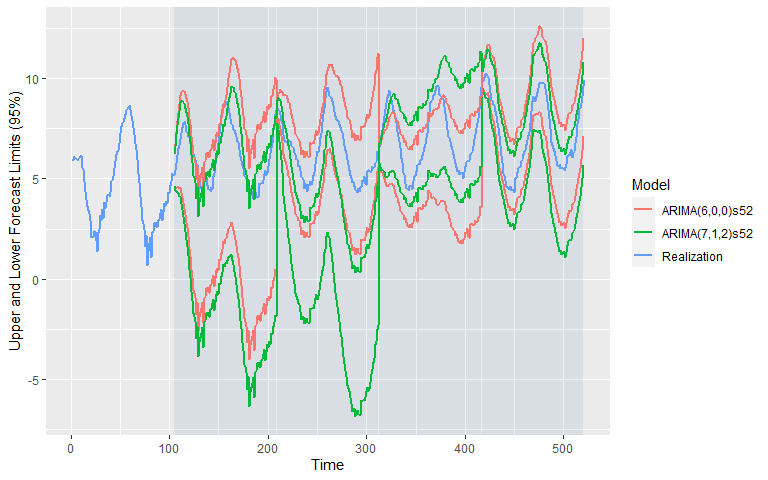
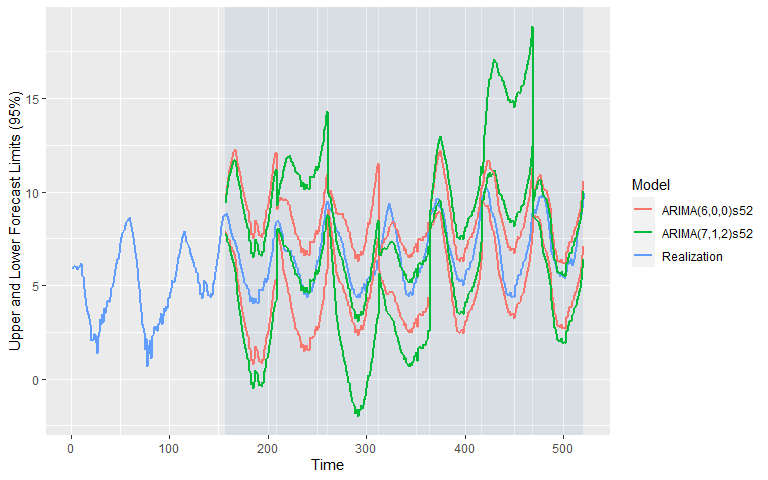
after 1st draft

diff --git a/case_study_4/analysis/master/flu_data_analysis.md b/case_study_4/analysis/master/flu_data_analysis.md
@@ -1,8 +1,9 @@
 Flu Data Analysis
 ================
 Nikhil Gupta
-2020-10-17 15:45:22
+2020-10-17 17:48:22
 
+-   [Reading Data](#reading-data)
 -   [Response Variable](#response-variable)
     -   [checking for nulls](#checking-for-nulls)
     -   [Simple representation](#simple-representation)
@@ -20,51 +21,8 @@ Nikhil Gupta
                 Residuals](#evaluation-of-the-residuals)
             -   [Model Characterisics](#model-characterisics)
 
-    library(tidyverse)
-
-    ## -- Attaching packages --------------------------------------- tidyverse 1.3.0 --
-
-    ## v ggplot2 3.3.2     v purrr   0.3.4
-    ## v tibble  3.0.3     v dplyr   1.0.2
-    ## v tidyr   1.1.2     v stringr 1.4.0
-    ## v readr   1.4.0     v forcats 0.5.0
-
-    ## -- Conflicts ------------------------------------------ tidyverse_conflicts() --
-    ## x dplyr::filter() masks stats::filter()
-    ## x dplyr::lag()    masks stats::lag()
-
-    library(scales)
-
-    ## 
-    ## Attaching package: 'scales'
-
-    ## The following object is masked from 'package:purrr':
-    ## 
-    ##     discard
-
-    ## The following object is masked from 'package:readr':
-    ## 
-    ##     col_factor
-
-    library(tswge)
-    library(tseries)
-
-    ## Registered S3 method overwritten by 'quantmod':
-    ##   method            from
-    ##   as.zoo.data.frame zoo
-
-    library(lubridate)
-
-    ## 
-    ## Attaching package: 'lubridate'
-
-    ## The following objects are masked from 'package:base':
-    ## 
-    ##     date, intersect, setdiff, union
-
-    library(tswgewrapped) 
-    #https://github.com/josephsdavid/tswgewrapped
-    #https://josephsdavid.github.io/tswgewrapped/index.html
+Reading Data
+============
 
     data = read.csv("../../data/FluNetInteractiveReport_2010_2019.csv")  %>%
       rowid_to_column() %>%
@@ -415,7 +373,7 @@ forward
     ## 6 5.888878
 
     var_interest = 'log_flu'
-    n.ahead = 52*2
+    n.ahead = 52 
     batch_size = 208
 
     mdl_compare_uni = tswgewrapped::ModelCompareUnivariate$new(
@@ -474,7 +432,7 @@ residuals are not white noise.
       )
     p
 
-    ## Warning: Removed 210 row(s) containing missing values (geom_path).
+    ## Warning: Removed 314 row(s) containing missing values (geom_path).
 
 ![](flu_data_analysis_files/figure-gfm/unnamed-chunk-23-1.png)<!-- -->
 
@@ -492,15 +450,21 @@ residuals are not white noise.
 
 ![](flu_data_analysis_files/figure-gfm/unnamed-chunk-26-1.png)<!-- -->
 
-    dataReal= filter(fcstPlot$plot_data,Model == 'Actual')
-    dataModels= filter(fcstPlot$plot_data,Model != 'Actual')
+    fcstPlot$plot_data_log = fcstPlot$plot_data %>%  
+      left_join(select(data,rowid,SDATE),by=c('Time'='rowid')) %>%
+      mutate(DATE2 = min(.$SDATE,na.rm=T) + weeks(Time-min(.$Time))
+             ,DATE = if_else(is.na(SDATE),DATE2,SDATE))
 
-    p = ggplot2::ggplot(data=dataModels, aes(x=Time)) +
+    dataReal= filter(fcstPlot$plot_data_log,Model == 'Actual')
+    dataModels= filter(fcstPlot$plot_data_log,Model == 'ARIMA(6,0,0)s52')
+
+    p = ggplot2::ggplot(data=dataModels, aes(x=DATE)) +
       geom_ribbon(aes(ymin=ll,ymax=ul,fill=Model),alpha=.2)+
       geom_line(aes(y=f,color=Model),size=.8) +
       geom_line(data=dataReal,aes(y=f),size=.2,color='#444444',linetype=1) +
+      scale_x_date(date_breaks = 'year',labels=year,minor_breaks = NULL)+
       ggthemes::theme_pander() +
-      labs(x='Week ID',y='Cases of Influcenza (Log)',title='Prediction of log-based Influenza Cases ') +
+      labs(x='Date',y='Cases of Influcenza (Log)',title='Prediction of log-based Influenza Cases ') +
       ggplot2::theme(
         legend.position = 'top'
         
@@ -508,19 +472,21 @@ residuals are not white noise.
     p
 
 ![](flu_data_analysis_files/figure-gfm/unnamed-chunk-27-1.png)<!-- -->
-\#\# un-logged prediction
+\#\# unlogged prediction
 
-    fcstPlot$plot_data_nolog = fcstPlot$plot_data %>%   mutate(f=exp(f),ll=exp(ll),ul=exp(ul))
-    dataReal= filter(fcstPlot$plot_data_nolog,Model == 'Actual') %>%
-      mutate(f)
-    dataModels= filter(fcstPlot$plot_data_nolog,Model != 'Actual')
+    fcstPlot$plot_data_nolog = fcstPlot$plot_data_log %>%  
+      mutate(f=exp(f),ll=exp(ll),ul=exp(ul))
+      
+    dataReal= filter(fcstPlot$plot_data_nolog,Model == 'Actual') 
+    dataModels= filter(fcstPlot$plot_data_nolog,Model  == 'ARIMA(6,0,0)s52')
 
-    p = ggplot2::ggplot(data=dataModels, aes(x=Time)) +
+    p = ggplot2::ggplot(data=dataModels, aes(x=DATE)) +
       geom_line(aes(y=f,color=Model),size=.8) +
       geom_line(data=dataReal,aes(y=f),size=.2,color='#444444',linetype=1) +
       ggthemes::theme_pander() +
+      scale_x_date(date_breaks = 'year',labels=year,minor_breaks = NULL)+
       scale_y_continuous(label=comma ) +
-      labs(x='Week ID',y='Cases of Influcenza',title='Prediction of Influenza Cases ') +
+      labs(x='Date',y='Cases of Influcenza',title='Prediction of Influenza Cases ') +
       ggplot2::theme(
         legend.position = 'top'
         
@@ -528,9 +494,40 @@ residuals are not white noise.
     p
 
 ![](flu_data_analysis_files/figure-gfm/unnamed-chunk-28-1.png)<!-- -->
-\#\# Conclusion
 
-In conclusion, it seems that the Seasonal ARIMA model without
-differencing seems to be performing better in general. The trend is not
-appreciable in the logged data to warrant differencing (adding the
-Integrated term in the model).
+    tbl = fcstPlot$plot_data_nolog %>%
+      mutate(year = year(DATE)
+             ,month =month(DATE)
+             ,week = week(DATE)
+             ,FourWeeks = floor((week-1)/4)+1
+             ) %>%
+      filter((year %in% c(2018,2019) & Model =='Actual') |(year == 2020 & Model =='ARIMA(6,0,0)s52') 
+             ) %>%
+      group_by(year,FourWeeks) %>%
+      summarise(f=sum(f),Wmin=min(week)) %>%
+      ungroup() %>%
+      pivot_wider(id_cols=c('FourWeeks','Wmin'), values_from = 'f',names_from='year') %>%
+      mutate('% Change' = round(`2020`/`2019` - 1 ,3)) %>%
+      arrange(FourWeeks)
+
+    ## `summarise()` regrouping output by 'year' (override with `.groups` argument)
+
+    tbl
+
+    ## # A tibble: 14 x 6
+    ##    FourWeeks  Wmin `2018` `2019` `2020` `% Change`
+    ##        <dbl> <dbl>  <dbl>  <dbl>  <dbl>      <dbl>
+    ##  1         1     1 91773. 40272. 69644.      0.729
+    ##  2         2     5 91484. 68204. 95432.      0.399
+    ##  3         3     9 31865. 57249. 67346.      0.176
+    ##  4         4    13 15778. 16556  17381.      0.05 
+    ##  5         5    17  4449   3617.  3536.     -0.022
+    ##  6         6    21   847.  1734   1651.     -0.048
+    ##  7         7    25   372.  1099.  1044.     -0.05 
+    ##  8         8    29   354.   991.   951.     -0.04 
+    ##  9         9    33   582   1702.  1656.     -0.027
+    ## 10        10    37  1134.  2141   2107.     -0.016
+    ## 11        11    41  2074.  4796   4767.     -0.006
+    ## 12        12    45  4579. 19012. 18992.     -0.001
+    ## 13        13    49 22320. 44016. 44082.      0.001
+    ## 14        14    53  7068.    NA     NA      NA
